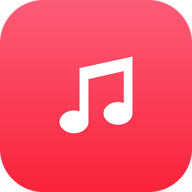
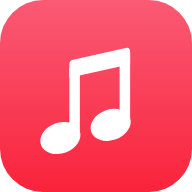
Musica: icona in stile Apple Music
Sfumatura rosa-rosso a tutto campo e due crome bianche più grandi,
come l'icona di Apple Music. apple-touch-icon e maskable senza angoli
(li arrotonda il sistema), icone «any» con angoli arrotondati.
?v=2 su icone e manifest e cache v5, così iPhone e Mac le riscaricano.

Claude-Session: https://claude.ai/code/session_01QTHS3THfduvy3r9bYq3p1t

diff --git a/musica/sw.js b/musica/sw.js
@@ -1,6 +1,6 @@
 // Atlante Musica: copia offline dell'app (la musica è salvata a parte, in IndexedDB).
-const CACHE = 'atlante-musica-v4';
-const FILES = ['./', './index.html', './manifest.webmanifest', './icon-192.png', './icon-512.png', './icon-maskable-512.png', './apple-touch-icon.png'];
+const CACHE = 'atlante-musica-v5';
+const FILES = ['./', './index.html', './manifest.webmanifest', './icon-192.png?v=2', './icon-512.png?v=2', './icon-maskable-512.png?v=2', './apple-touch-icon.png?v=2'];
 // moduli della scheda Altro: si mettono in copia uno per uno (se uno manca, gli altri restano)
 const MODULI = ['x/kit.css', 'x/kit.js'].concat(['podcast', 'libri', 'video', 'live', 'naviga', 'benessere', 'strumenti', 'studio'].map(m => 'x/' + m + '.html'));
 const ATTESA = 3000;   // se il Mac non risponde entro 3 s l'app si apre dalla copia offline

diff --git a/musica/index.html b/musica/index.html
@@ -5,8 +5,8 @@
 <meta charset="utf-8">
 <meta name="viewport" content="width=device-width,initial-scale=1,viewport-fit=cover">
 <link rel="manifest" href="manifest.webmanifest">
-<link rel="icon" href="icon-192.png">
-<link rel="apple-touch-icon" href="apple-touch-icon.png">
+<link rel="icon" href="icon-192.png?v=2">
+<link rel="apple-touch-icon" href="apple-touch-icon.png?v=2">
 <meta name="theme-color" content="#ffffff" media="(prefers-color-scheme: light)">
 <meta name="theme-color" content="#000000" media="(prefers-color-scheme: dark)">
 <meta name="apple-mobile-web-app-capable" content="yes">
